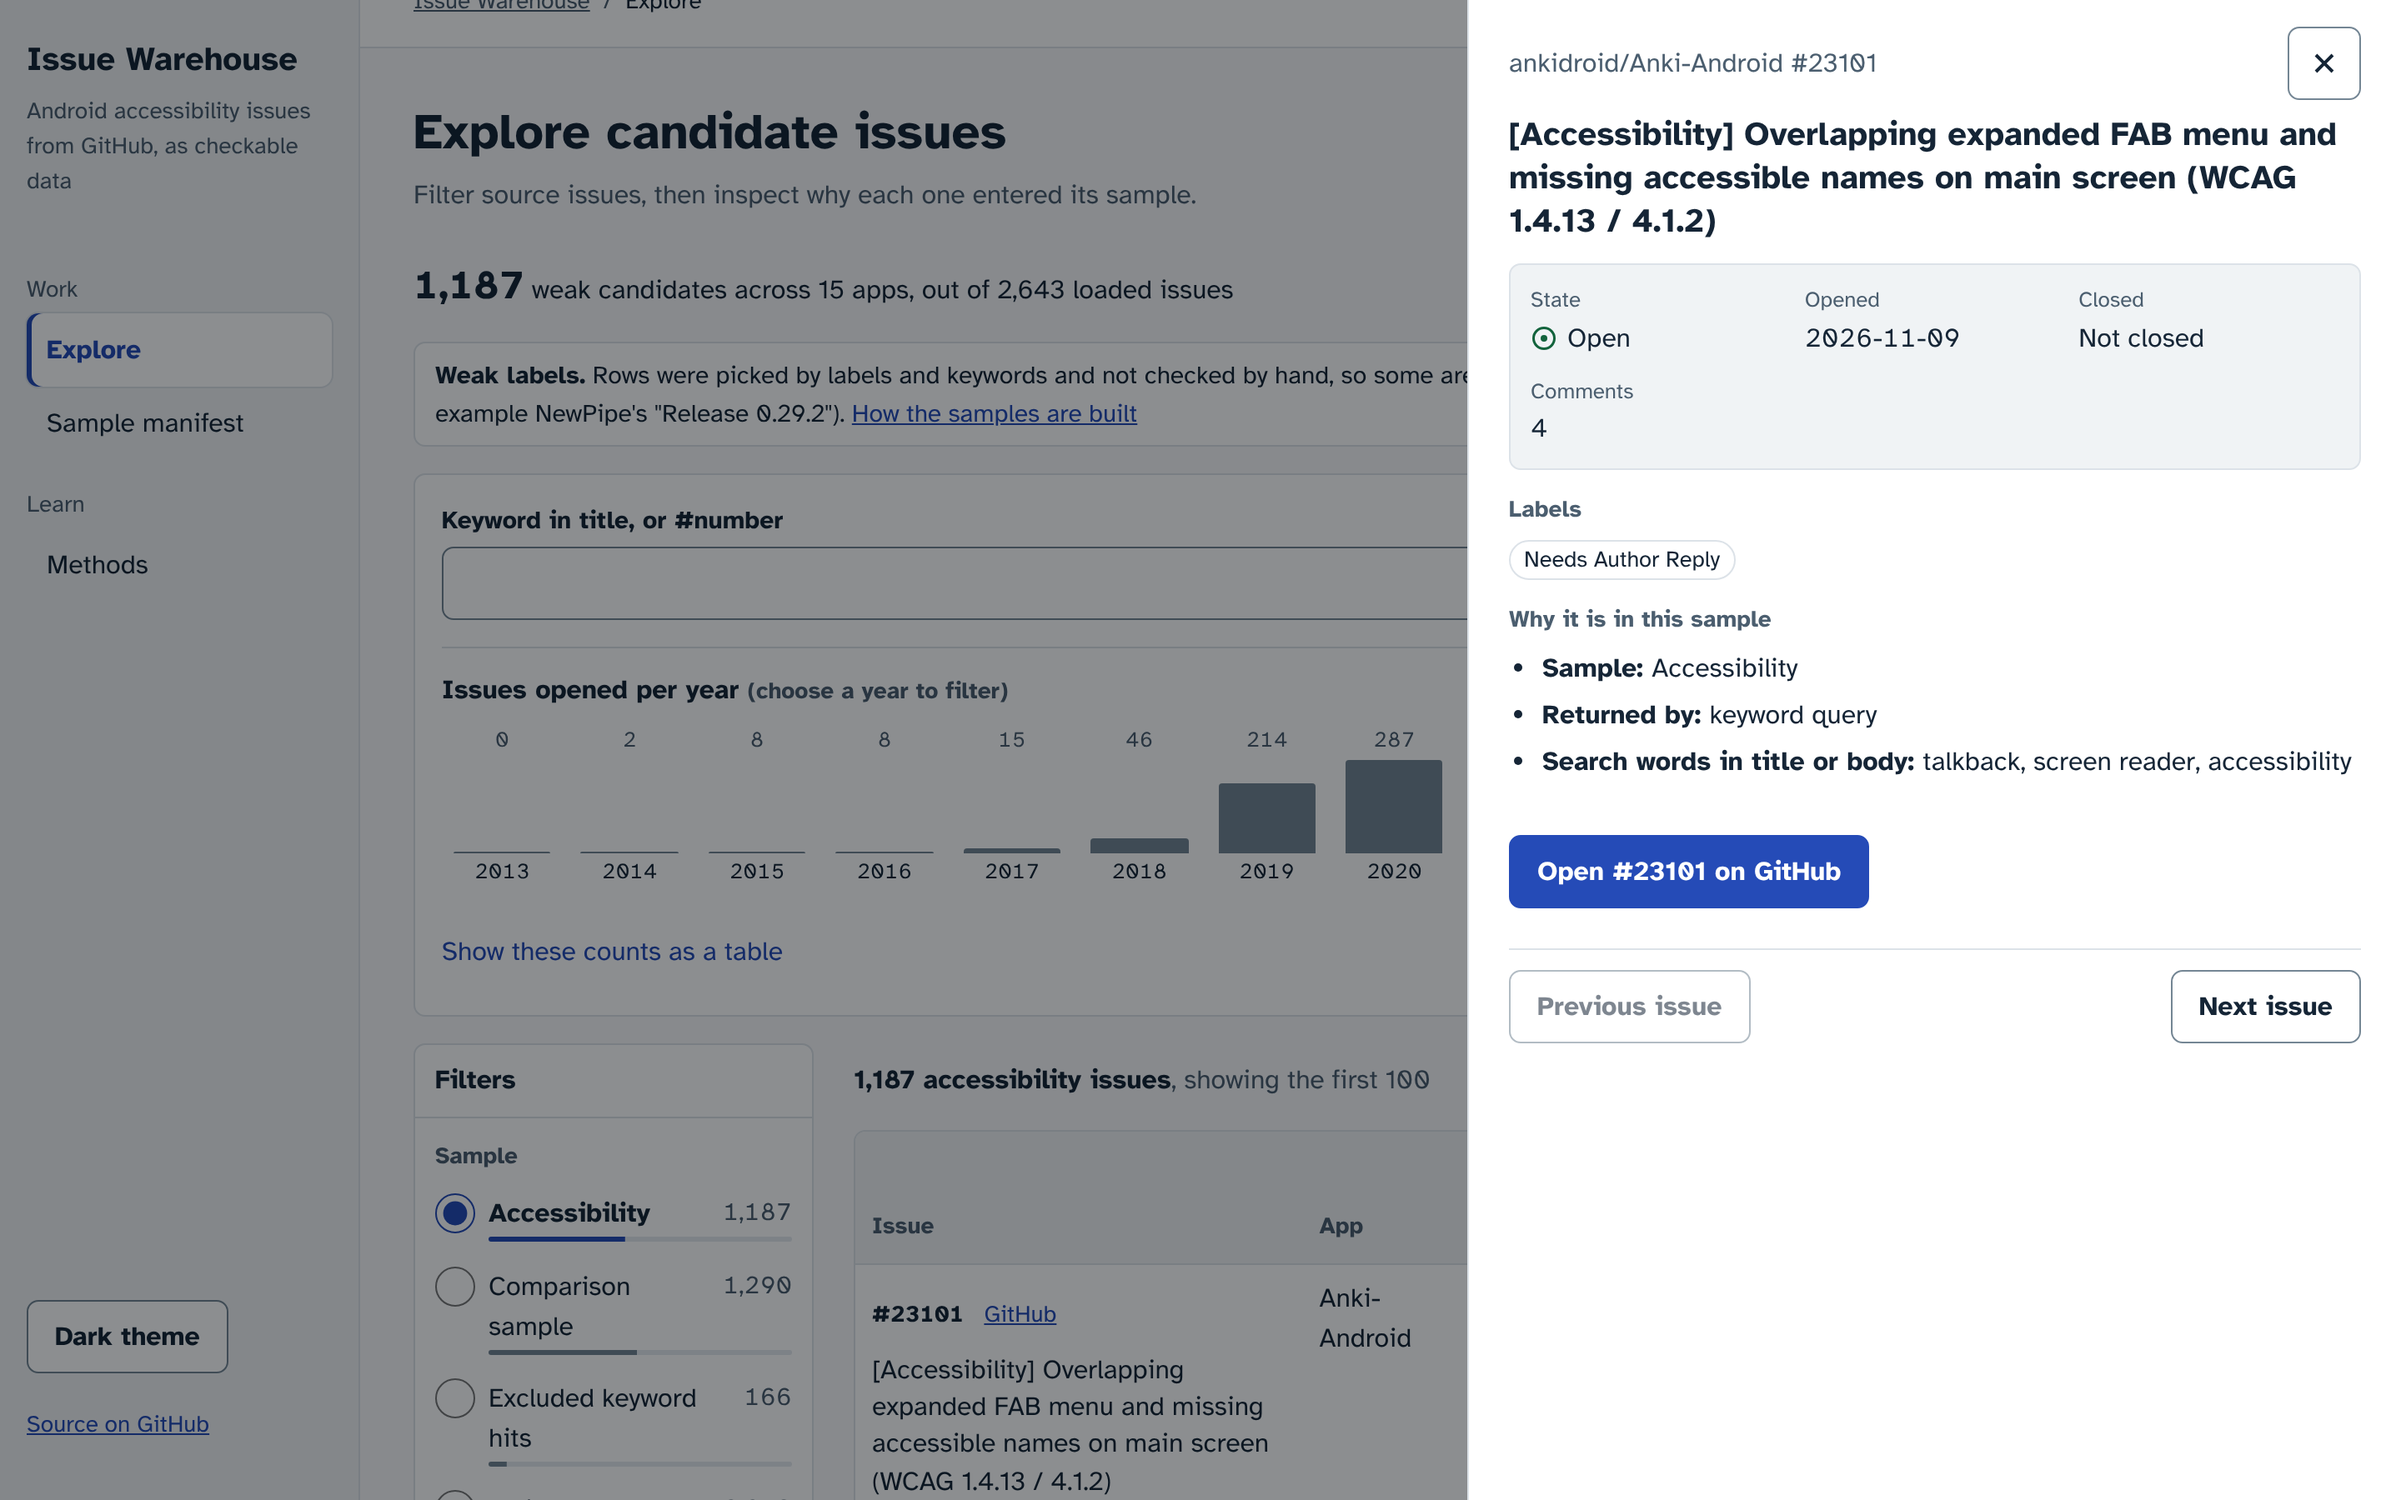
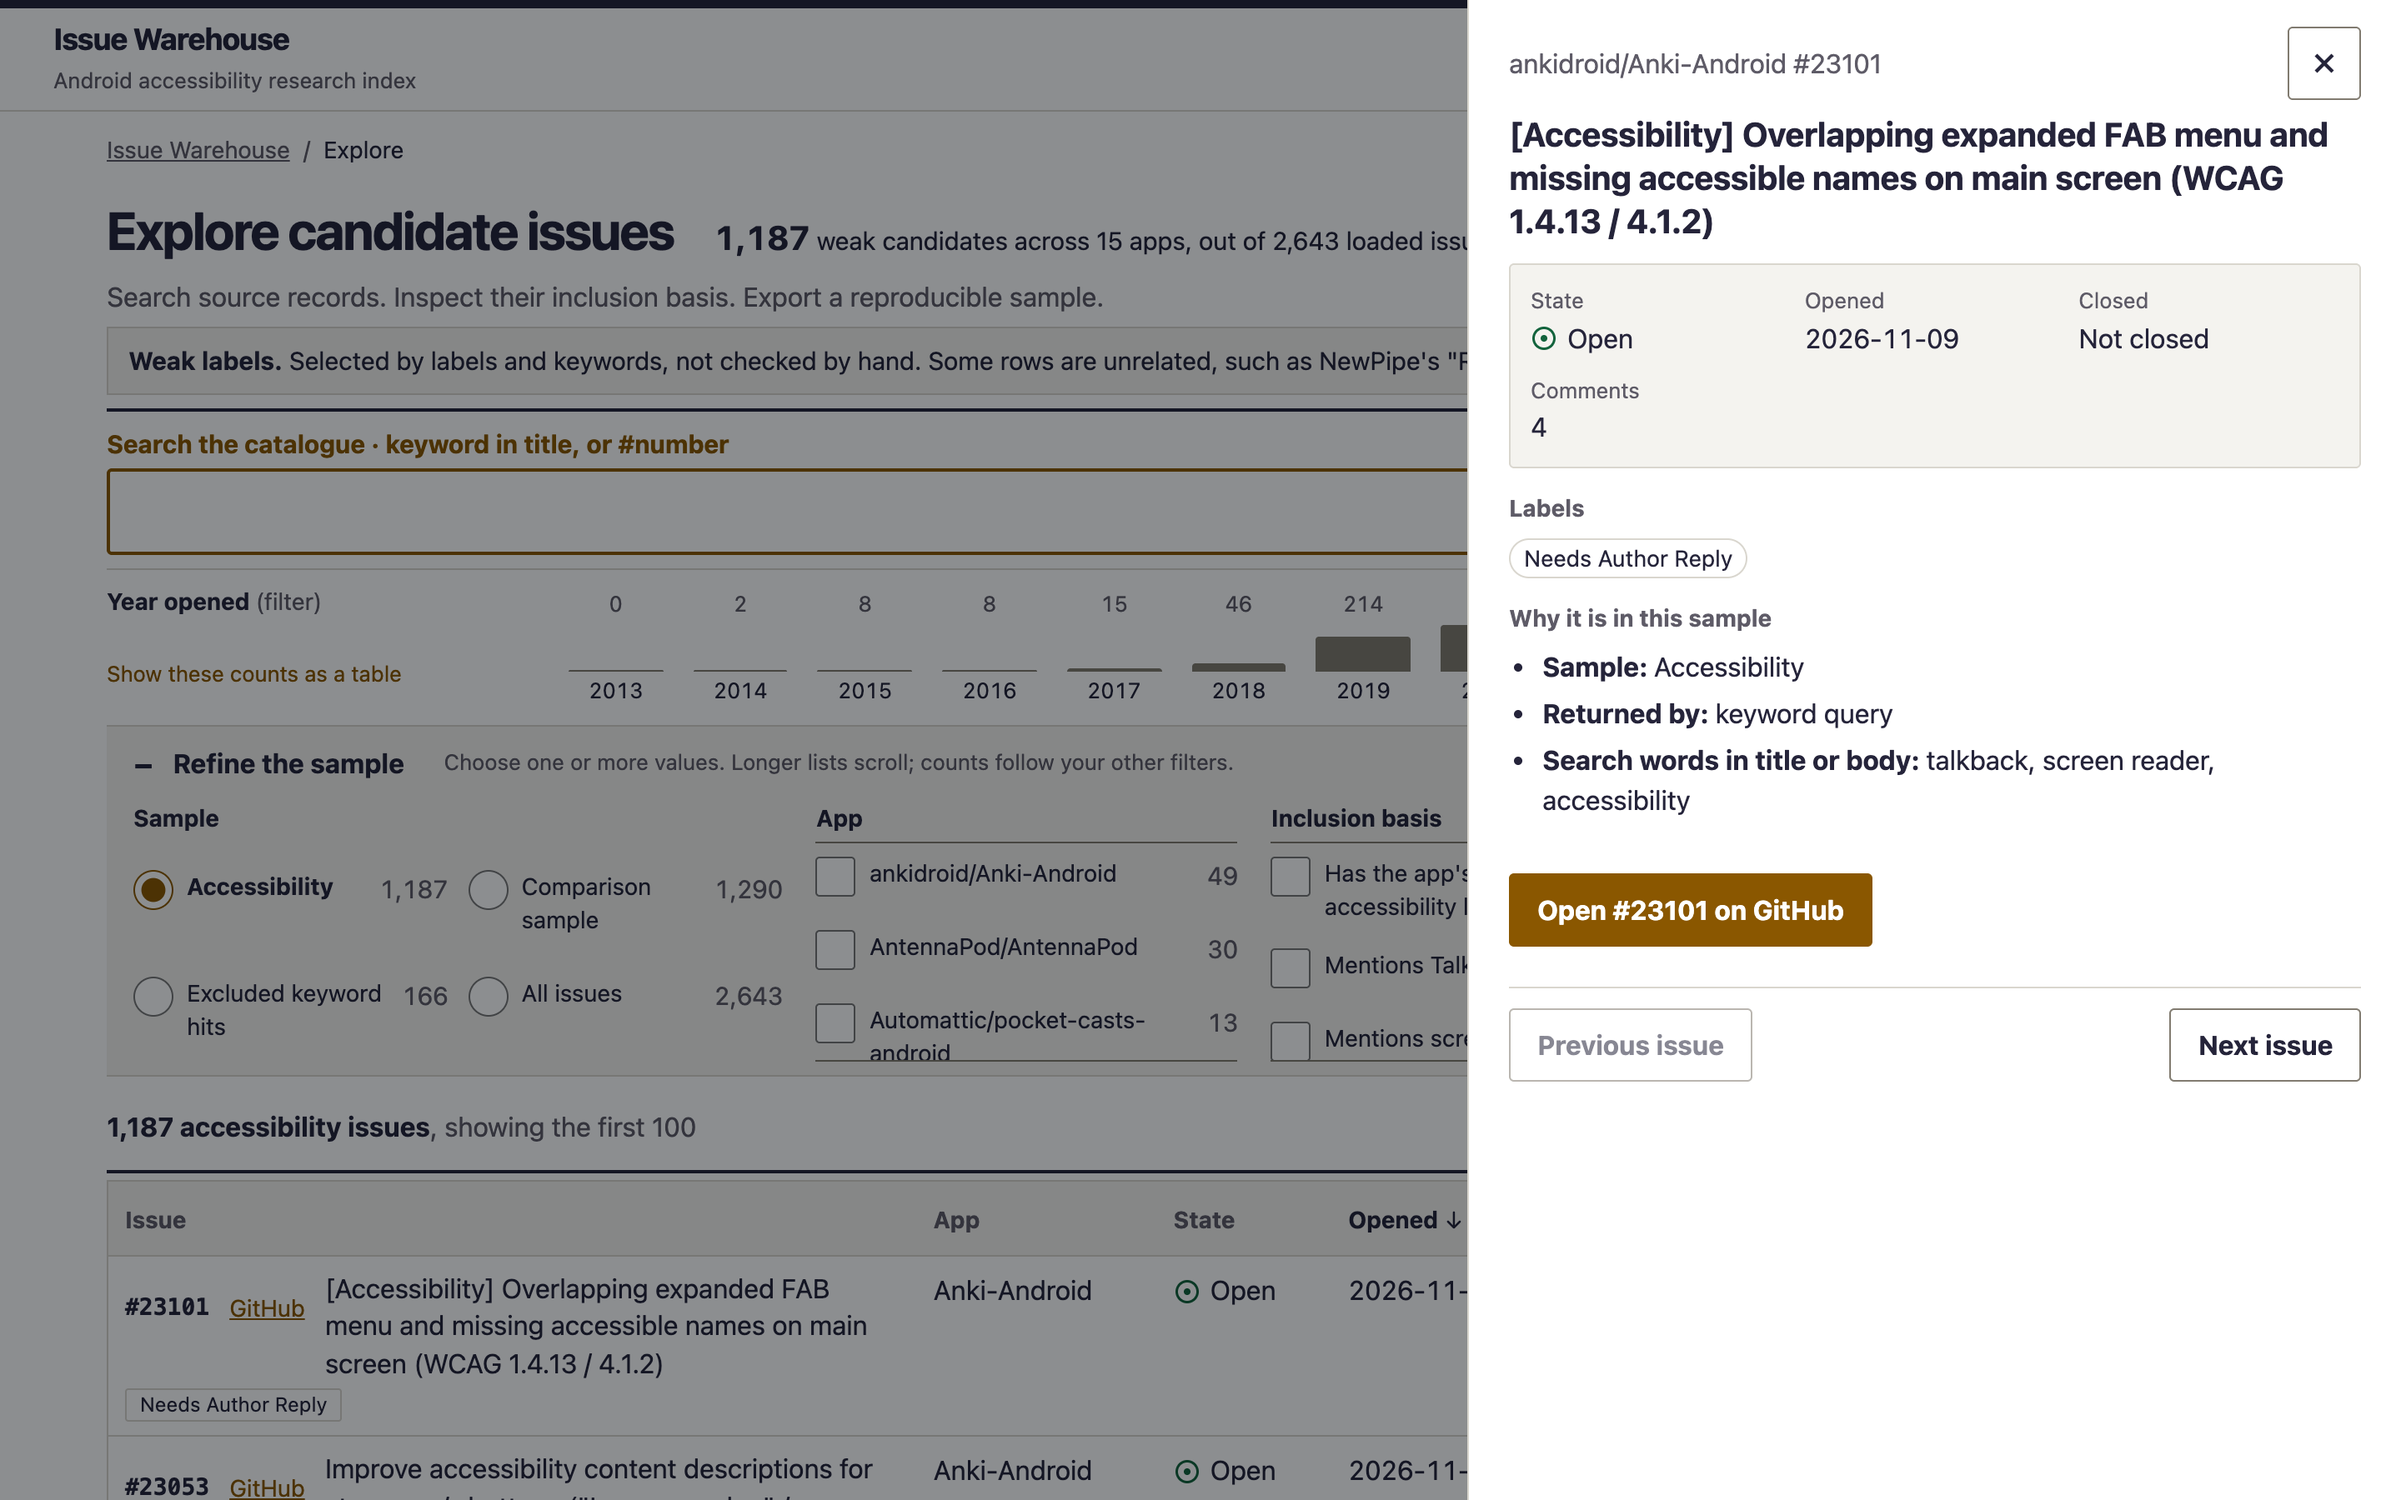
Refresh README captures for the accepted app design

diff --git a/README.md b/README.md
@@ -37,7 +37,7 @@ GitHub search API --extract.py--> data/raw/*.json.gz --load.py--> data/warehouse
 **Browse the issues:** https://anirudh763.github.io/a11y-issue-warehouse/ (GitHub Pages,
 served from `docs/` on `main`)
 
-![Explore screen: facets with live counts beside the issue rows, an issues-per-year strip above them, the 1,187-issue accessibility-issue sample](docs/screenshots/explorer.png)
+![Explore screen: facets with live counts above full-width issue rows, an issues-per-year strip above them, the 1,187-issue accessibility-issue sample](docs/screenshots/explorer.png)
 
 A static page intended for accessibility researchers and Android maintainers; it has not
 been tried with either group (see below). It has three screens (hash routes, so links work
@@ -277,7 +277,7 @@ What this shows and does not show:
 
 ```
 make test   ->  79 passed
-make e2e    ->  75 passed (+1 screenshot test that runs only with SCREENSHOTS=1)
+make e2e    ->  76 passed (+1 screenshot test that runs only with SCREENSHOTS=1)
 ```
 
 `make test` counted 79 when this section was first written; it is 103 now (`python3 -m pytest -q tests`).
